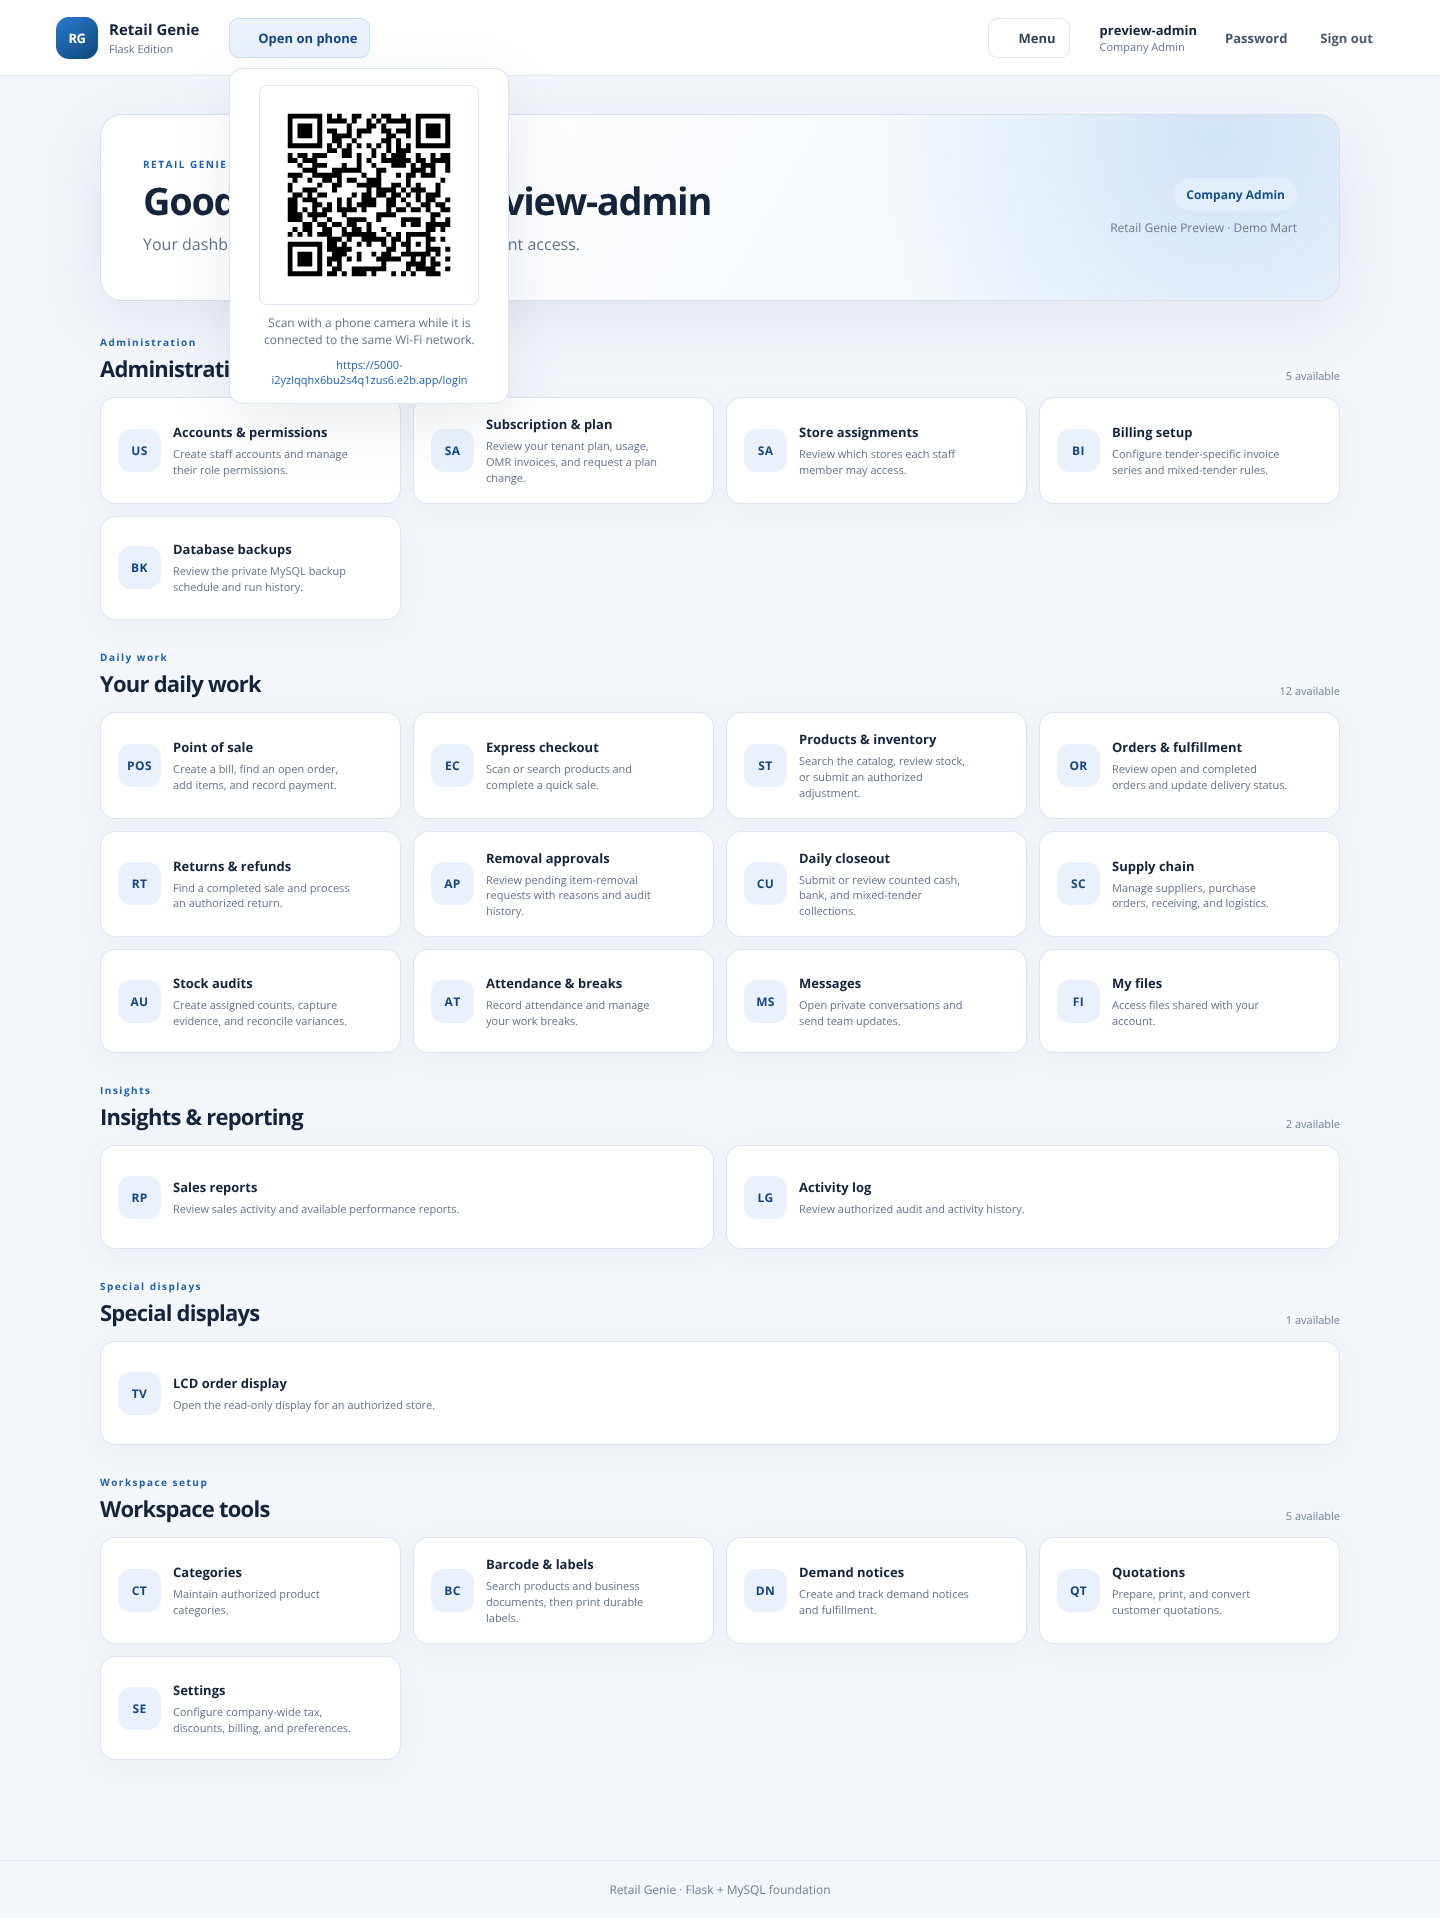
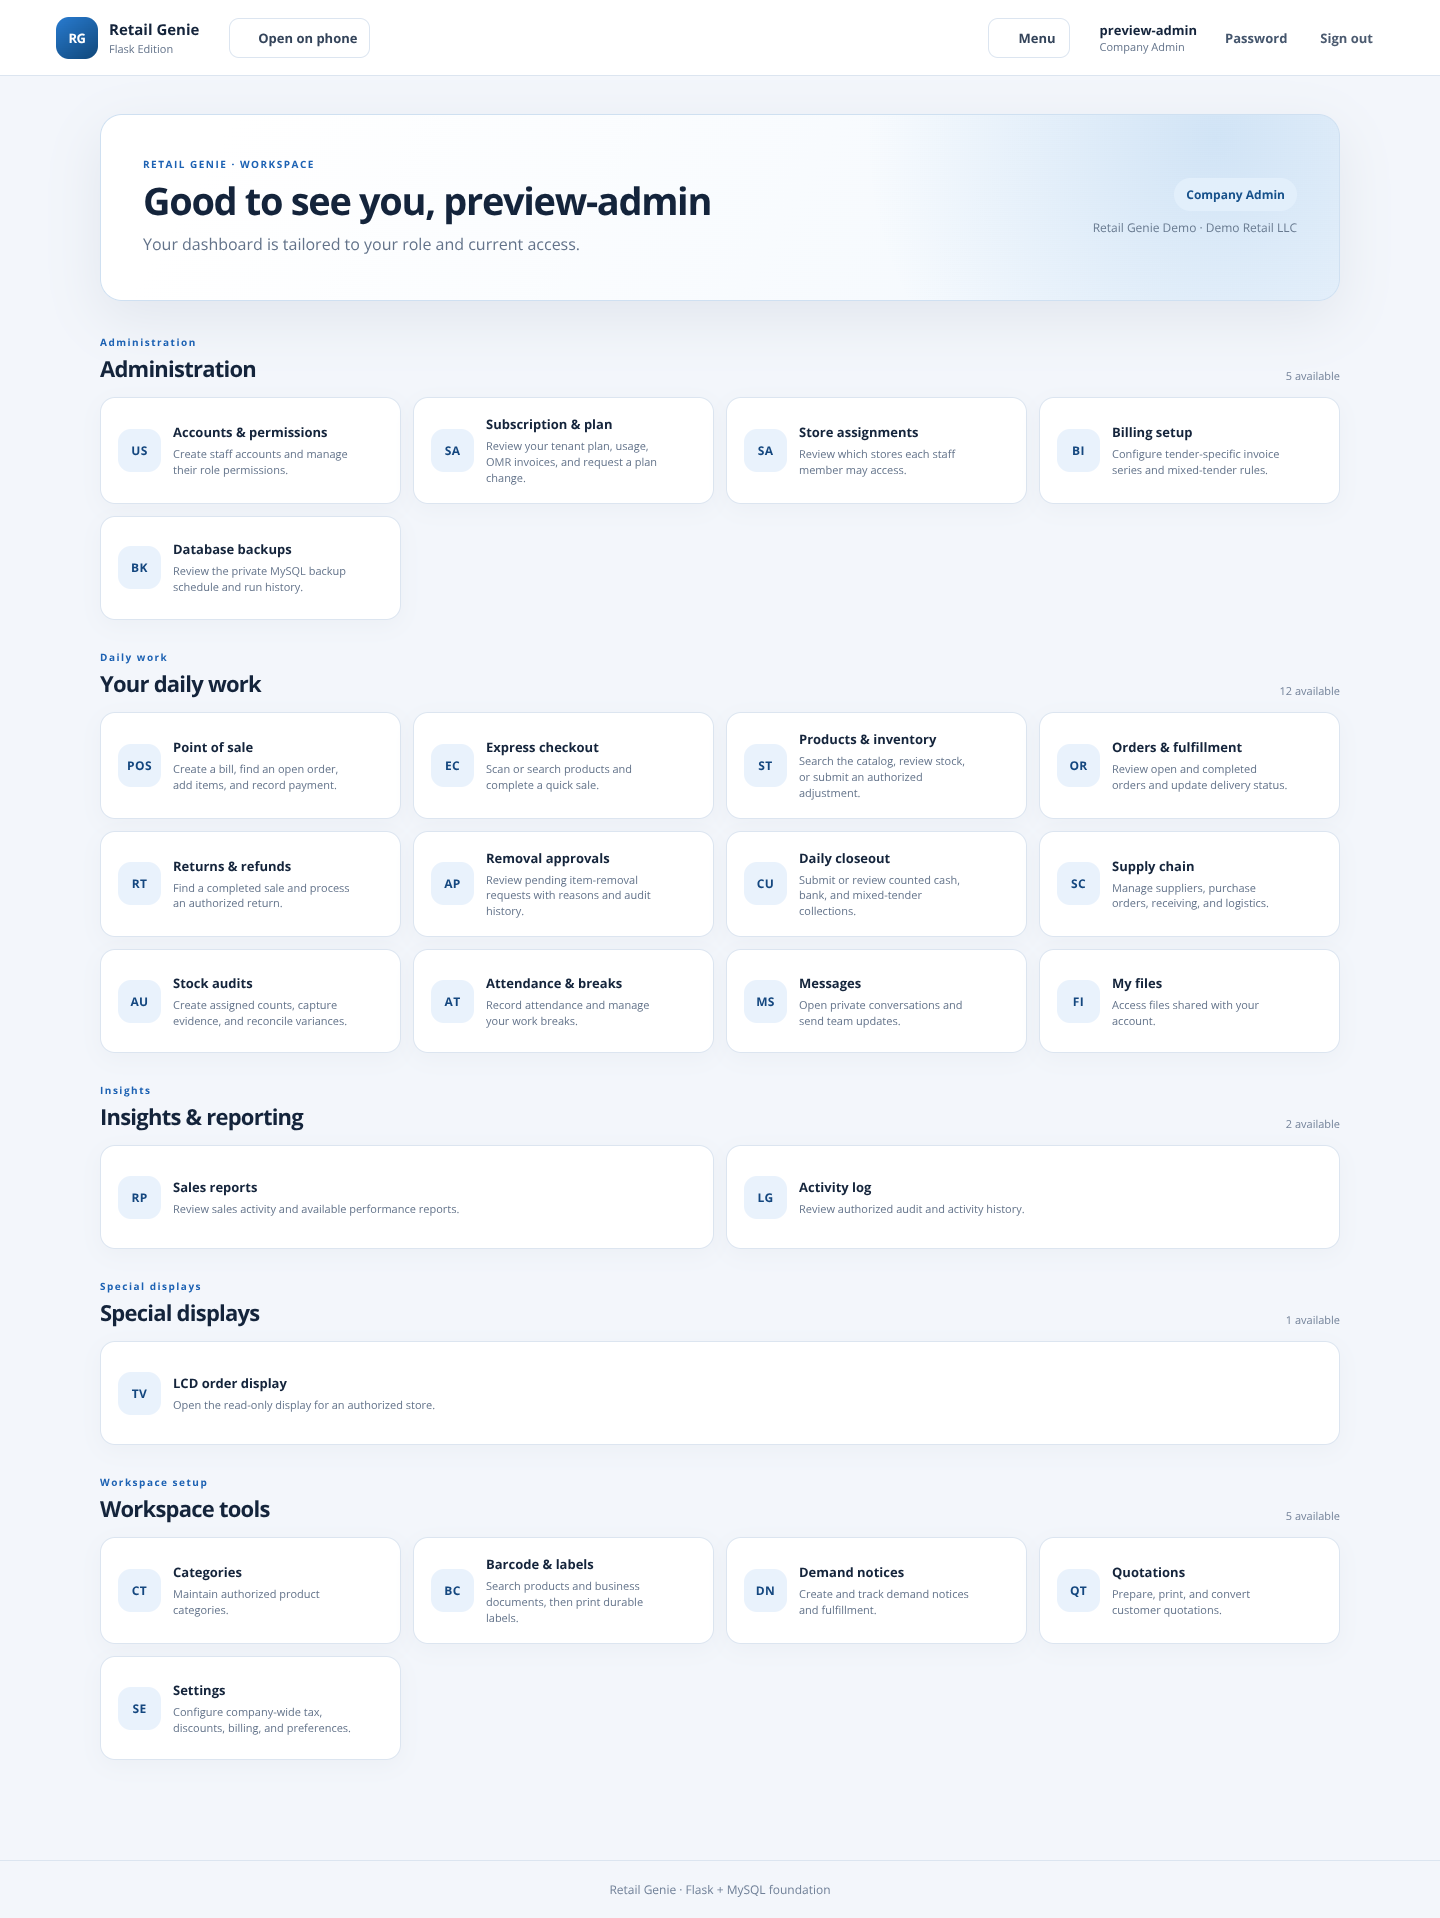
Fix UI accessibility and add visual QA previews

Changed region(s): [[0.1562, 0.0308, 0.3438, 0.2153], [0.2188, 0.0, 0.25, 0.0308], [0.1562, 0.1846, 0.1875, 0.2153]]

diff --git a/Retail Genie Final/retail_genie/static/css/app.css b/Retail Genie Final/retail_genie/static/css/app.css
@@ -96,7 +96,7 @@ h3 { margin-bottom: 6px; font-size: 16px; }
 .pill { display: inline-flex; align-items: center; gap: 6px; padding: 6px 9px; border-radius: 999px; color: #54657b; background: #eef2f7; font-size: 10px; font-weight: 800; white-space: nowrap; }
 .pill-success { color: #126342; background: var(--green-pale); }
 .pill-muted { color: #6b7788; background: #edf0f4; }
-.status-note { display: inline-flex; gap: 8px; align-items: center; margin-top: 25px; color: #d9e8f8; font-size: 12px; }
+.status-note { display: inline-flex; gap: 8px; align-items: center; margin-top: 25px; color: #3c6f58; font-size: 12px; }
 .status-dot { width: 8px; height: 8px; border-radius: 50%; background: #7ee0ad; box-shadow: 0 0 0 4px rgba(126, 224, 173, .13); }
 .auth-layout { display: grid; grid-template-columns: 1fr minmax(340px, 450px); gap: clamp(30px, 8vw, 110px); align-items: center; min-height: min(620px, 75vh); }
 .auth-aside { max-width: 530px; padding: 30px 0; }
@@ -122,7 +122,19 @@ h3 { margin-bottom: 6px; font-size: 16px; }
 .admin-grid { display: grid; grid-template-columns: minmax(290px, 380px) minmax(0, 1fr); gap: 20px; align-items: start; }
 .create-account-card { position: sticky; top: 18px; }
 .accounts-card { min-width: 0; }
-.table-wrap { width: 100%; overflow-x: auto; }
+.table-wrap, .table-scroll { width: 100%; max-width: 100%; overflow-x: auto; }
+.visually-hidden {
+  position: absolute !important;
+  width: 1px !important;
+  height: 1px !important;
+  padding: 0 !important;
+  margin: -1px !important;
+  overflow: hidden !important;
+  clip: rect(0, 0, 0, 0) !important;
+  clip-path: inset(50%) !important;
+  white-space: nowrap !important;
+  border: 0 !important;
+}
 table { width: 100%; border-collapse: collapse; text-align: left; }
 th, td { padding: 13px 10px; border-bottom: 1px solid #edf1f6; vertical-align: middle; }
 th { color: #74839a; font-size: 10px; letter-spacing: .07em; text-transform: uppercase; }

diff --git a/Retail Genie Final/APPLICATION_BLUEPRINT.md b/Retail Genie Final/APPLICATION_BLUEPRINT.md
@@ -146,7 +146,7 @@ python run.py
 
 - `database-schema.sql` is initial schema for a fresh empty database, not a way to upgrade existing business data.
 - `/healthz` checks process liveness; `/readyz` checks database readiness.
-- `preview/dashboard.png` is illustrative; its QR image contains an old temporary preview URL. A running installation generates its own login QR.
+- `preview/` contains illustrative desktop/mobile screenshots captured with synthetic local demo data. The desktop screenshot shows the QR launcher; mobile clients intentionally omit it. Screenshot data does not represent live-MySQL validation.
 
 ## 9. Reading the indexes
 
@@ -1240,7 +1240,7 @@ Index generated from the application Python source: **600 function/method defini
 
 ## Appendix C — Complete application file tree
 
-Local `.env`, caches, and runtime-created upload/backup folders are intentionally omitted.
+Local `.env`, Python caches, and runtime-created upload/backup folders are intentionally omitted. The preview directory contains illustrative synthetic-data screenshots.
 
 ```text
 .env.example
@@ -1249,7 +1249,18 @@ APPLICATION_BLUEPRINT.md
 LOCAL_INSTALL_GUIDE.md
 README.md
 database-schema.sql
+preview/accounts.png
 preview/dashboard.png
+preview/login-desktop.png
+preview/login-mobile.png
+preview/point-of-sale.png
+preview/pos-demo-open-bill.png
+preview/pos-demo-settled-invoice.png
+preview/products-inventory.png
+preview/products-mobile.png
+preview/settings.png
+preview/stock-audits.png
+preview/supply-chain.png
 requirements.txt
 retail_genie/__init__.py
 retail_genie/admin/__init__.py

diff --git a/Retail Genie Final/README.md b/Retail Genie Final/README.md
@@ -21,6 +21,18 @@ The target database is MySQL 8.0.16 or newer with InnoDB. The supplied schema is
 - `requirements.txt` — application runtime dependencies.
 - `run.py`, `wsgi.py`, `.env.example`, `.gitignore` — application entry points and configuration support.
 - `LOCAL_INSTALL_GUIDE.md` — Windows/MySQL Workbench setup, LAN QR access, and initial account configuration.
-- `preview/dashboard.png` — illustrative dashboard screenshot from a temporary UI preview. Its QR graphic contains a temporary preview URL; an actual installation generates a fresh QR code for its current address.
+
+## UI previews
+
+These screenshots were captured from an isolated local browser preview using synthetic demo records. They are illustrative only and do **not** represent live-MySQL validation.
+
+- [Dashboard](preview/dashboard.png)
+- [Sign-in — desktop](preview/login-desktop.png) · [mobile](preview/login-mobile.png)
+- [Products & inventory — desktop](preview/products-inventory.png) · [mobile](preview/products-mobile.png)
+- [Point of sale — initial view](preview/point-of-sale.png) · [open demo bill](preview/pos-demo-open-bill.png) · [settled demo invoice](preview/pos-demo-settled-invoice.png)
+- [Supply chain](preview/supply-chain.png)
+- [Stock audits](preview/stock-audits.png)
+- [Settings](preview/settings.png)
+- [Accounts](preview/accounts.png)
 
 The directory is intended to be copied or deployed as an independent application. Local credentials, environment files, database data, uploads, and backups are not included.
